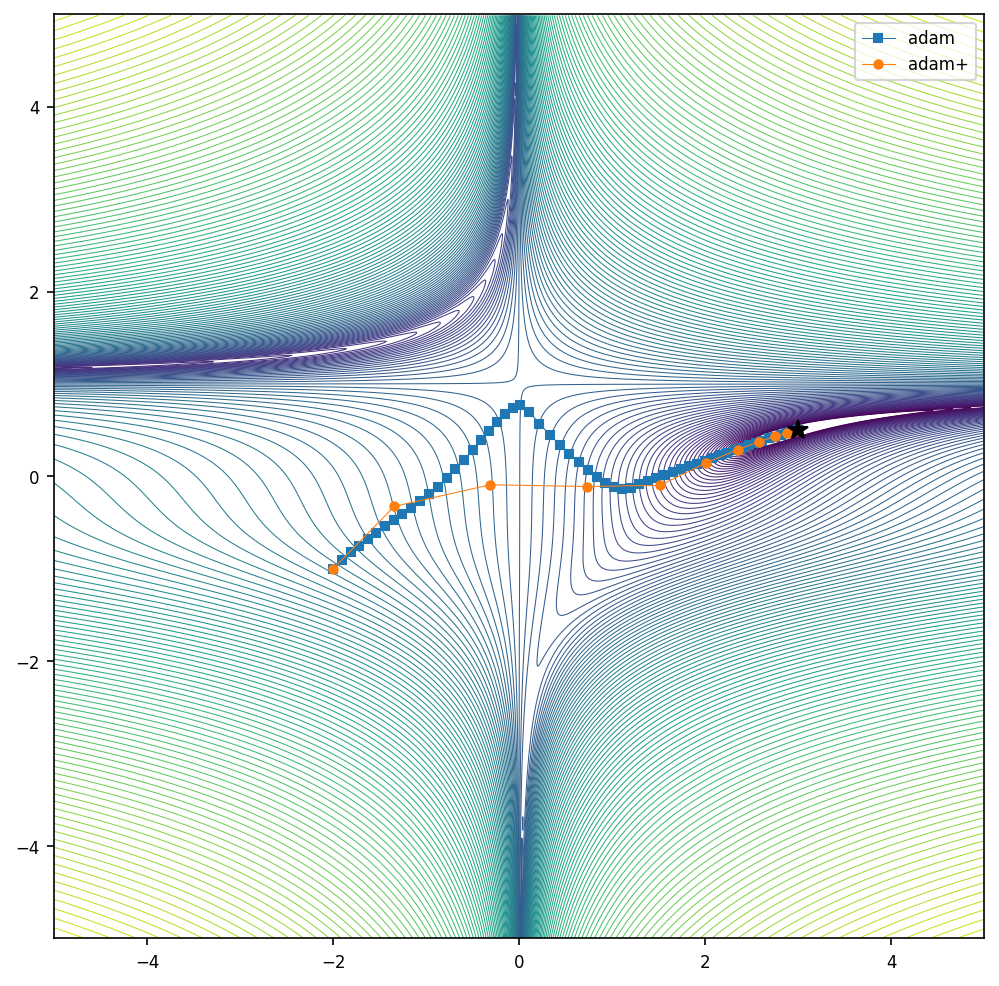
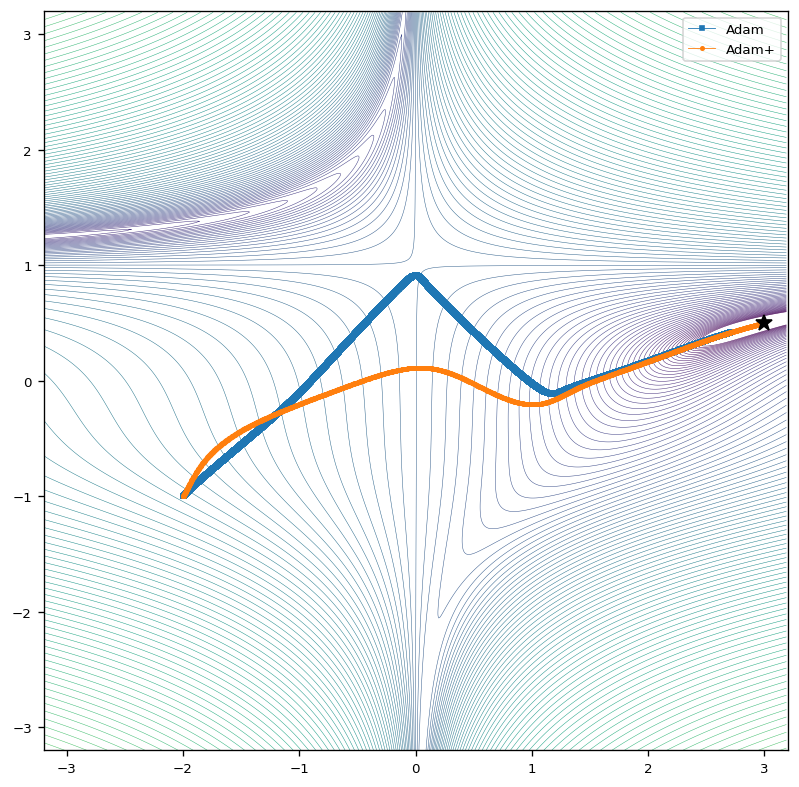
- Added better figures - Added section for learning rates - Workd on discussion section

diff --git a/_posts/2020-12-12-adaptive-learning-rate-method.md b/_posts/2020-12-12-adaptive-learning-rate-method.md
@@ -233,47 +233,54 @@ For better comparability, results are shown for one optimizer at a time.
 
 The following figure shows the behaviour of the classic Gradient Descent (GD) algorithm. We see that the algorithms equipped with an adaptive learning rate (GD+) approaches the global minimum on a similar path but with much larger steps. 
 
-![](/assets/images/post6/gd_beale_gd_alpha_1em5.png)
+![](/assets/images/post6/gd_gd.png)
 
 This behaviour is also reflected in the loss as apparent in the next figure. The loss shows that the adaptive learning rate not only allows to approach the global minimum much faster, it also gets about an order of magnitued closer after convergence.
 
-![](/assets/images/post6/loss_gd_beale_1em4.png)
+![](/assets/images/post6/loss_gd.png)
 
 ### Gradient Descent with Momentum
 
 In the case with momentum, the results behave similarly to those for the classic gradient descent. Due to the adaptive learning rate, the global minimum is reached in a more direct way and with larger steps.
 
-![](/assets/images/post6/gd_beale_gdm_alpha_5em5.png)
+![](/assets/images/post6/gd_gdm.png)
 
 Here we see again, that the optimizer equipped with an adaptive learning rate converges much faster and also gets much closer to the global minimum.
 
-![](/assets/images/post6/loss_gdm_beale_5em4.png)
+![](/assets/images/post6/loss_gdm.png)
 
 ### Nestrov Accelerated Gradient
 
 In case of the Nestrov Accelerated Gradient (NAG) optimizer with a fixed learning rate, the optimizer approaches the global minimum more carfully compared to the method equipped with an adaptive learning rate. Here we see that NAG+ again behaves more aggressive right at the beginning of the optimization process.
 
-![](/assets/images/post6/gd_beale_nag_alpha_1em6.png)
+![](/assets/images/post6/gd_nag.png)
 
 Even thought the gradient descent with NAG+ does not approach the minimum right from the start, it converges with a slight delay much faster requiring only half the steps to converge compared to NAG.
 
-![](/assets/images/post6/loss_nag_beale.png)
+![](/assets/images/post6/loss_nag.png)
 
 ### Adam
 
 The next figure shows the results for the Adam optimization algorithm. The results show that the Adam algorithm with constant learning rate approaches to global minimum in a steady and a very carfully way. If we equip the Adam optimizer with an parameter-wise adaptive learning rate, we can observe, that the gradient descent is much more aggresive meaning, that the global minimum is approached with larger steps and in a more direct way.
 
-![](/assets/images/post6/gd_beale_adam_alpha_1em7.png)
+![](/assets/images/post6/gd_adam.png)
 
 If we look at how the loss behaves we see how much faster the optimizer with adaptive learning rate converges. Two things in particular stand out here. Adam+ get very close to the global minimum before it than oscillates much further away around the minimum. On the other hand, even though Adam takes much for time to converge, it get closer to the global minimum by almost two order of magnitudes.
 
-![](/assets/images/post6/loss_adam_beale.png)
+![](/assets/images/post6/loss_adam.png)
+
+### Visualization of Adaptive Learning Rates
+
+The following figure shows the learning rates $\eta_x$ and $\eta_y$ for each optimizer used in the experiments. Visualizing the adaptive learning rates show, how they are subject to major changes, especially at the beginning of the optimization process.
+
+![](/assets/images/post6/lr.png)
+
 
 ## Discussion
 
-The visualization of the gradient descent already indicates that the global minimum is reached faster for optimizers that use the adaptive learning rate presented above.
+The single most striking observation to emerge from the experimental results was, that the global minimum is reached much faster for optimizers equipped with the adaptive learning rate presented above. It is also noteworthy, that in most cases, an adaptive learning rate also results in a smaller error after convergence.
 
-Using an adaptive learning rate allows to ... less time necessary for hyperparameter search. In principle it is possible to start with a learning rate of zero.
+As the visualization of the learning rate has shown, there is a sharp increases right at the beginning of the optimization process due to the large gradients caused by the test function. In the further course, the learning rate then adapts to the topological conditions before it converges towards a certain value. The convergence results from the fact that the gradients become very small when the global minimum is reached.
 
 ## Outlook
 
